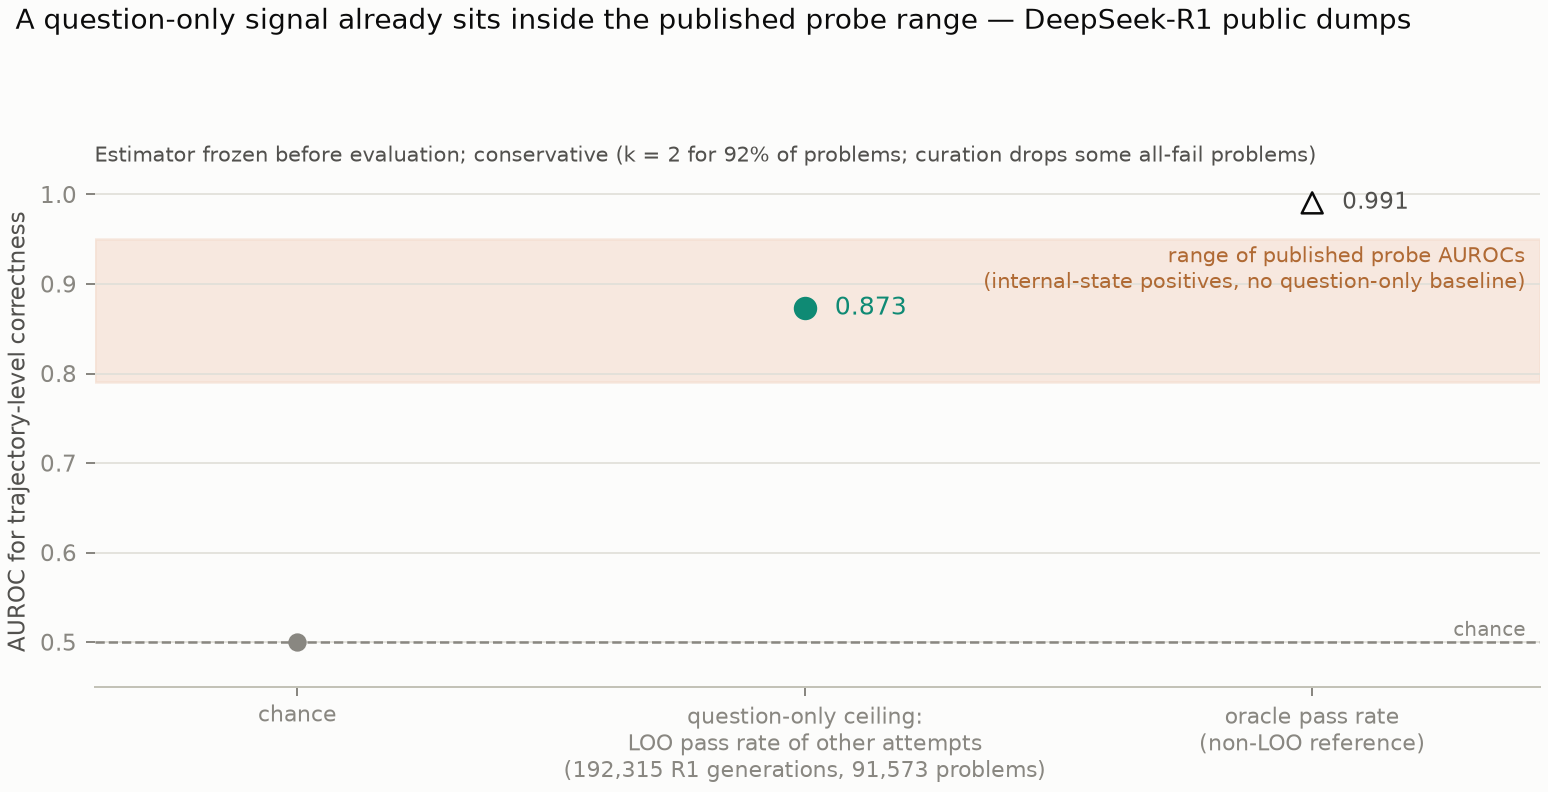
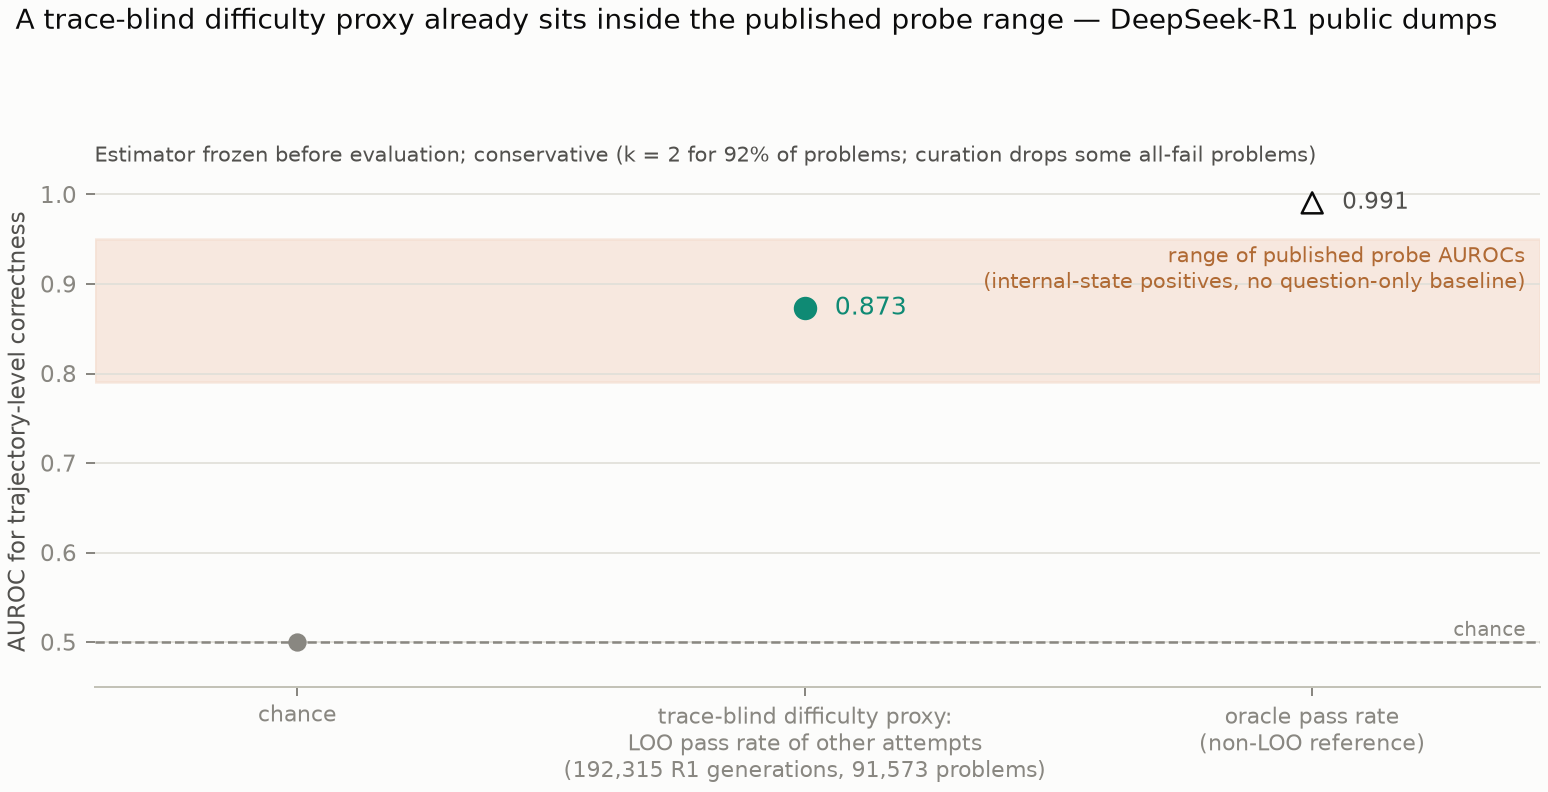
Sync second audit round: matched-compute in-grid/proxy decomposition, trace-blind proxy renaming, per-set n disclosure, bounded within-signal language, split classifier docs, refreshed claims table and figures

Changed region(s): [[0.031, 0.0, 0.9612, 0.0606], [0.4341, 0.8788, 0.6202, 0.9394]]

diff --git a/paper/sections/results_prediction.tex b/paper/sections/results_prediction.tex
@@ -36,8 +36,9 @@ straddling zero (Figure~\ref{fig:sweep}): the absence of detected gain is
 not an artifact of the chosen window. These are absences of detected gain,
 not demonstrations of equivalence --- the primary CI's upper bound
 ($+0.167$) does not exclude moderate effects, and no equivalence margin
-was pre-registered; an equivalence-style reading is licensed only where
-the intervals are tight, in the within-problem dissection below.
+was pre-registered anywhere; what tighter intervals can support is an
+explicit bound on effect size, as in the within-problem dissection
+below.
 
 \begin{figure}[t]\centering
 \includegraphics[width=\linewidth]{confirmatory_auroc}
@@ -53,9 +54,9 @@ signals.}
 
 Why the null has this shape is visible in the per-model split: the
 difficulty baseline alone is near-perfect for Gemma-4 (test AUROC $1.0$
-on both endpoints) and mediocre for Ministral-3 ($0.69$--$0.73$).
-Difficulty almost fully accounts for the capability-limited model's
-outcomes, while the
+on both endpoints, $n{=}16$ and $11$) and mediocre for Ministral-3
+($0.69$--$0.73$). Descriptively, difficulty leaves little to explain for
+the capability-limited model, while the
 budget-elastic model's outcomes carry residual stochastic variance --- the
 band of Section~\ref{sec:results-regimes} --- that neither difficulty nor
 early dynamics explain.
@@ -108,13 +109,14 @@ neutral reference for ``no within-attempt information'' is $\tfrac{1}{2}$.
 
 Our cohort is small, so we asked the same question of public data at
 scale. On 192{,}315 DeepSeek-R1 generations over 91{,}573 problems
-\citep{openr1math}, a question-only predictor --- the leave-one-out pass
-rate of the problem's \emph{other} attempts, for 92\% of problems a single
-binary observation --- achieves AUROC $0.873$ $[0.870, 0.876]$
+\citep{openr1math}, a trace-blind difficulty proxy --- the leave-one-out
+pass rate of the problem's \emph{other} attempts, for 92\% of problems a
+single binary observation, reading neither the trace nor the question ---
+achieves AUROC $0.873$ $[0.870, 0.876]$
 (problem-clustered bootstrap; estimator frozen before evaluation, and
 conservative by construction since dataset curation truncates the
-difficulty range). That places a question-only signal squarely inside the
-$0.79$--$0.95$ range that internal-state probe papers report
+difficulty range). That places a predictor that never reads the trace
+squarely inside the $0.79$--$0.95$ range that internal-state probe papers report
 \citep{zhang2025knowright, yuan2026diagnostic, sun2026trajectories,
 david2025temporal} --- none of which report a question-only baseline
 (Figure~\ref{fig:ceiling}; the partial exception,
@@ -127,8 +129,9 @@ multiple-choice guessing floor that attenuates, never inflates, it.
 
 \begin{figure}[t]\centering
 \includegraphics[width=.9\linewidth]{difficulty_ceiling_openr1}
-\caption{A question-only signal on public DeepSeek-R1 generations reaches
-AUROC 0.873 --- inside the published probe range.}
+\caption{A trace-blind difficulty proxy (the leave-one-out pass rate of
+the problem's other attempts) reaches AUROC 0.873 on public DeepSeek-R1
+generations --- inside the published probe range.}
 \label{fig:ceiling}\end{figure}
 
 \subsection{Dissecting a published probe positive in the reasoning-model
@@ -145,18 +148,22 @@ design permits the control no published positive can run: evaluating the
 construction.
 
 The uncontrolled result replicates: a last-four-token hidden-state probe
-at $t = 4$ reaches pooled AUROC $0.849$ $[0.735, 0.919]$, matching the
-$0.84$ reported by \citet{david2025temporal}. The same probe, on the same
-trajectories, evaluated within problem --- the within component of
+at $t = 4$ reaches pooled AUROC $0.849$ $[0.735, 0.919]$ on the
+8-per-problem evaluation set ($n{=}1{,}024$), matching the $0.84$
+reported by \citet{david2025temporal}. The same probe, evaluated within
+problem on the 22 mid-band problems ($n{=}5{,}632$) --- the within component of
 Eq.~\eqref{eq:decomp}, estimated under both discordant-pair and the
 pre-registered failure-count weighting (Appendix~\ref{app:extra}) ---
 sits at $0.496$ $[0.466, 0.527]$ under the pre-registered
 failure-count weighting and $0.515$ $[0.481, 0.562]$ under exact
 discordant-pair weighting --- chance under both --- and remains at chance
 at every one of ten anchors from $t = 4$ to $512$
-(Figure~\ref{fig:dissect}). The entire positive is problem identity, far
-below the dump's full leave-one-out difficulty ceiling of $0.981$
-(pass rate of the 255 other attempts per problem). Moreover, with sample composition held fixed, the pooled AUROC
+(Figure~\ref{fig:dissect}); the upper confidence limits bound any
+within-attempt AUROC signal at $t = 4$ by $0.527$ (failure-weighted) and
+$0.562$ (pair-weighted). The pooled positive is therefore predominantly
+--- and possibly entirely --- between-problem information, far below the
+dump's full leave-one-out difficulty ceiling of $0.981$ (pass rate of the
+255 other attempts per problem). Moreover, with sample composition held fixed, the pooled AUROC
 itself collapses --- indistinguishable from chance by $t = 16$ ($0.586$,
 CI straddling $0.5$) and $\approx 0.55$ from $t = 32$ onward: the
 difficulty content readable from last-token states is a prompt echo that

diff --git a/scripts/render_paper_figures.py b/scripts/render_paper_figures.py
@@ -345,10 +345,10 @@ def fig_matched_compute(root: Path, labels: pd.DataFrame, out: Path) -> None:
          for p, a in zip(lab.problem_id, lab.terminal_a1_anchor)], fontsize=8.4)
     ax.set_xlabel("Success rate"); ax.set_xlim(-0.04, 1.06)
     ax.grid(axis="y", visible=False)
-    ax.set_title("Prefix beats restart at matched total compute in 11/13; the "
-                 "largest measured restart reaches τ in 11/13 and the prefix "
-                 "rate in 9/13\n(* matched budget 9,216 exceeds the grid; "
-                 "R(8,192) substituted, favoring the prefix)",
+    ax.set_title("In-grid matched comparisons: prefix wins 9/9 (median +0.31); "
+                 "starred boundary proxies: 2 wins, 2 ties.\nLargest measured "
+                 "restart reaches τ in 11/13, the prefix rate in 9/13 "
+                 "(* R(9,216) unmeasured; R(8,192) proxy, bias direction unknown)",
                  loc="left", fontsize=8.8, color=SEC, pad=10)
     handles = [Line2D([], [], marker="o", ls="", color=ORANGE,
                       label="continue own prefix at final anchor t (pooled, 8 branches)"),
@@ -408,12 +408,56 @@ def fig_dissection(report_path: Path, out: Path) -> None:
     plt.close(fig)
 
 
+
+
+def fig_ceiling(report_path: Path, out: Path) -> None:
+    r = json.loads(report_path.read_text())
+    point = r["loo_ceiling_auroc"] if "loo_ceiling_auroc" in r else r["primary_auroc_difficulty_loo"]
+    ci = r.get("ci") or [r["primary_ci"]["ci_low"], r["primary_ci"]["ci_high"]]
+    fig, ax = plt.subplots(figsize=(8.6, 4.4), layout="constrained")
+    fig.get_layout_engine().set(rect=(0, 0, 1, 0.88))
+    ax.axhspan(0.79, 0.95, color="#f3d9c9", alpha=0.55, zorder=0)
+    ax.text(2.42, 0.945, "range of published probe AUROCs\n(internal-state "
+            "positives, no question-only baseline)", ha="right", va="top",
+            fontsize=8.6, color="#b06a34")
+    ax.axhline(0.5, color=MUTED, lw=1, ls="--")
+    ax.text(2.42, 0.507, "chance", fontsize=8, color=MUTED, ha="right")
+    ax.scatter([0], [0.5], color=MUTED, s=40, zorder=3)
+    ax.plot([1, 1], ci, color="#0f8a74", lw=3, solid_capstyle="round", zorder=3)
+    ax.scatter([1], [point], color="#0f8a74", s=70, zorder=4)
+    ax.annotate(f"{point:.3f}", (1, point), textcoords="offset points",
+                xytext=(12, 0), fontsize=10, color="#0f8a74", va="center")
+    oracle = r.get("oracle_upper_reference_non_loo")
+    if oracle:
+        ax.scatter([2], [oracle], facecolor="none", edgecolor=INK, s=70,
+                   marker="^", zorder=3)
+        ax.annotate(f"{oracle:.3f}", (2, oracle), textcoords="offset points",
+                    xytext=(12, 0), fontsize=9, color=SEC, va="center")
+    ax.set_xticks([0, 1, 2])
+    ax.set_xticklabels(["chance",
+                        "trace-blind difficulty proxy:\nLOO pass rate of other "
+                        "attempts\n(192,315 R1 generations, 91,573 problems)",
+                        "oracle pass rate\n(non-LOO reference)"], fontsize=8.8)
+    ax.set_ylabel("AUROC for trajectory-level correctness")
+    ax.set_ylim(0.45, 1.02); ax.set_xlim(-0.4, 2.45)
+    ax.grid(axis="x", visible=False)
+    fig.suptitle("A trace-blind difficulty proxy already sits inside the published "
+                 "probe range — DeepSeek-R1 public dumps",
+                 fontsize=11.2, color=INK, x=0.01, ha="left")
+    ax.set_title("Estimator frozen before evaluation; conservative (k = 2 for 92% "
+                 "of problems; curation drops some all-fail problems)",
+                 loc="left", fontsize=8.4, color=SEC)
+    fig.savefig(out / "difficulty_ceiling_openr1.png", dpi=180)
+    plt.close(fig)
+
+
 def main() -> None:
     parser = argparse.ArgumentParser()
     parser.add_argument("--labels", type=Path, required=True)
     parser.add_argument("--phase04c-root", type=Path, required=True)
     parser.add_argument("--output-dir", type=Path, required=True)
     parser.add_argument("--dissection-report", type=Path, default=None)
+    parser.add_argument("--ceiling-report", type=Path, default=None)
     args = parser.parse_args()
     args.output_dir.mkdir(parents=True, exist_ok=True)
     labels = pd.read_parquet(args.labels)
@@ -426,6 +470,8 @@ def main() -> None:
     fig_matched_compute(args.phase04c_root, labels, args.output_dir)
     if args.dissection_report and args.dissection_report.exists():
         fig_dissection(args.dissection_report, args.output_dir)
+    if args.ceiling_report and args.ceiling_report.exists():
+        fig_ceiling(args.ceiling_report, args.output_dir)
     print("figures rendered to", args.output_dir)
 
 

diff --git a/paper/main.tex b/paper/main.tex
@@ -43,14 +43,15 @@ from-scratch restart curves $R(C)$ at matched \emph{total} compute, with
 interval censoring and attempt-level noise handled explicitly. Applying the
 instrument to 178 problem--model cells (89 MATH problems $\times$ two small
 open models, 16K-token instrumented traces), we find: (i) only 1 of 178
-cells survives as prefix-limited under the frozen rules (three cells cross
-the advantage margin; an in-grid restart already solves two); (ii) restart dose--response
+cells survives as prefix-limited under the frozen rules (three non-instant
+cells cross the advantage margin; an in-grid restart already solves two); (ii) restart dose--response
 curves cleanly separate failure modes --- one model is compute-starved
 (solve share 0\%$\to$79\% as budget grows), the other capability-limited
-(flat); (iii) at matched total compute, continuing the model's own prefix
-beats restarting in 11/13 late-crossing cells, yet an 8{,}192-token restart
-reaches the same threshold in 11/13 and the prefix's own success rate in
-9/13 --- accumulated reasoning acts as \emph{compute
+(flat); (iii) wherever matched total compute lies inside the restart grid,
+continuing the model's own prefix beats restarting (9 of 9 late-crossing
+cells; 2 wins and 2 ties on four boundary proxies), yet an 8{,}192-token
+restart reaches the same threshold in 11/13 and the prefix's own success
+rate in 9/13 --- accumulated reasoning acts as \emph{compute
 compression}, not expanded reachability; (iv) roughly a third of ambiguous
 intermediate states remain intermediate after eight attempts (success
 rates 0.3--0.6), a band the independent second half of attempts
@@ -61,11 +62,13 @@ beyond a problem-difficulty baseline, at every forecast point from 128 to
 2,048 tokens --- a control that the growing literature of probe-based
 positives lacks. Two generation-free analyses of public corpora show the
 control bites in that literature's own regime: on 192K DeepSeek-R1
-generations a question-only signal reaches AUROC 0.873, inside the
-published probe range; and the closest published early-window positive
-replicates exactly (pooled 0.849 at $t{=}4$ on 6{,}480 R1-Distill-7B
-trajectories) while sitting at chance (0.496) \emph{within problem} at
-every anchor --- the entire signal is problem identity.
+generations a trace-blind difficulty proxy (the leave-one-out pass rate of
+the problem's other attempts) reaches AUROC 0.873, inside the published
+probe range; and the closest published early-window positive
+replicates (pooled 0.849 at $t{=}4$) while sitting at chance
+\emph{within problem} at every anchor, on the 22 non-saturated problems
+that hold 94\% of all failures --- consistent with the pooled positive
+being predominantly, and possibly entirely, between-problem information.
 \end{abstract}
 
 \section{Introduction}\label{sec:intro}

diff --git a/paper/sections/results_regimes.tex b/paper/sections/results_regimes.tex
@@ -62,14 +62,15 @@ Ministral-3 climbs $0\%\to79\%$; Gemma-4 stays flat.}
 The 13 threshold-censored Ministral-3 expansion cells --- trajectories
 whose crossing was replicated only at the final anchor --- allow the
 sharpest statement of what a long prefix is worth
-(Figure~\ref{fig:matched}). At \emph{matched total compute}, continuing
-the model's own prefix beats restarting in 11 of 13 cells (median
-advantage $+0.31$); for the four cells anchored at $t = 8{,}192$ the
-matched budget of $9{,}216$ exceeds the restart grid and
-$\Rhat(8{,}192)$ is substituted --- a substitution that can only favor
-the prefix, disclosed here. The largest measured restart reaches
-$\tauthr$ in 11 of 13 cells and matches the prefix's own pooled success
-rate in 9 of 13.
+(Figure~\ref{fig:matched}). In the nine cells whose matched budget $t + B$ lies inside the restart
+grid, continuing the model's own prefix beats restarting in all nine
+(median advantage $+0.31$). The four cells anchored at $t = 8{,}192$
+require $\Rhat(9{,}216)$, which was not measured; substituting
+$\Rhat(8{,}192)$ makes them proxy comparisons whose bias direction is
+unknown --- restart curves are not uniformly monotone --- and on these
+proxies the prefix wins two and ties two. The largest measured restart
+reaches $\tauthr$ in 11 of 13 cells and matches the prefix's own pooled
+success rate in 9 of 13.
 Accumulated reasoning therefore acts as \emph{compression} --- it reaches
 the same solutions with fewer total tokens --- rather than as expanded
 reachability. This instantiates, empirically and per problem, the no-benefit branch of
@@ -90,7 +91,7 @@ measured restart reaches $\tauthr$ in 11/13 and the prefix's own rate in
 9/13.}
 \label{fig:matched}\end{figure}
 
-\subsection{A genuinely stochastic solvability band}
+\subsection{A persistent band of intermediate solvability}
 
 Enlarging all 148 ambiguous cells to eight attempts resolved 55 as
 effectively unsolvable ($\le 2/8$) and 38 as solvable ($\ge 6/8$) --- and

diff --git a/paper/sections/appendix_extra.tex b/paper/sections/appendix_extra.tex
@@ -219,12 +219,15 @@ from a 100-problem level-balanced pool by frozen outcome-blind rules; the
 expansion screen selected problems with 1--5 verified successes out of 6
 fresh 3{,}072-token attempts (2 models $\times$ 3 seeds).
 
-\textbf{Classifiers.} All probes and the confirmatory models are
-$\ell_2$ logistic regression (C $= 0.1$, liblinear, class-weight
-balanced, max 5{,}000 iterations) on standardized features; raw-state
-probes add PCA to at most 128 components. Folds are
-StratifiedGroupKFold with problems as groups. Confidence intervals are
-percentile bootstraps over 2{,}000 problem-clustered draws.
+\textbf{Classifiers.} The instrumented-cohort analyses (confirmatory
+test and sweep) use $\ell_2$ logistic regression with C $= 0.1$,
+liblinear, class-weight balanced, at most 5{,}000 iterations, on
+standardized features. The public-dump probe battery uses scikit-learn
+defaults (C $= 1$, lbfgs) with class-weight balanced, at most 2{,}000
+iterations, standardization, and PCA to at most 128 components ---
+matching the probe recipes it replicates. Folds are StratifiedGroupKFold
+with problems as groups throughout. Confidence intervals are percentile
+bootstraps over 2{,}000 problem-clustered draws.
 
 \textbf{Exclusions.} Fifteen of 178 cells whose base run ended before
 the 512-token forecast window (10 train, 4 validation, 1 test) are

diff --git a/paper/sections/intro.tex b/paper/sections/intro.tex
@@ -52,13 +52,15 @@ rules were frozen contributed zero new cases
 unsolved problems dissolve as budget grows ($0\%\to79\%$,
 compute-starved); the other's do not budge (capability-limited).
 \item \textbf{Accumulated reasoning is compute compression.} At matched
-total compute the model's own prefix beats restarting (11/13), yet a
-larger restart budget reaches the same threshold in 11/13 and the prefix's
-own rate in 9/13: long reasoning reaches the same places cheaper, not new
-places.
+total compute the model's own prefix beats restarting wherever the
+comparison is exactly matched (9/9, with 2 wins and 2 ties on boundary
+proxies), yet a larger restart budget reaches the same threshold in 11/13
+and the prefix's own rate in 9/13: long reasoning reaches the same places
+cheaper, not new places.
 \item \textbf{Solvability is not binary.} A third of ambiguous
-intermediate states remain genuinely stochastic (success $0.3$--$0.6$ at
-eight attempts).
+intermediate states remain intermediate after eight attempts (success
+$0.3$--$0.6$), a band reproduced in the independent second half of
+attempts.
 \item \textbf{Early internal signals carry no detectable outcome
 information beyond difficulty.} A pre-registered, single-shot test on a held-out split finds
 $\Delta$AUROC $\approx 0$ at every forecast window

diff --git a/paper/sections/related_work.tex b/paper/sections/related_work.tex
@@ -40,7 +40,8 @@ quantity as training signal and its unreliability as label noise to be cleaned
 \emph{measurement instrument} --- with anchors on the model's own trace,
 interval censoring, attempt-pooling, and the restart control --- and treat
 its intermediate values as signal: roughly a third of ambiguous states
-remain genuinely stochastic (success 0.3--0.6 at $n{=}8$), which undermines
+remain intermediate after eight attempts (success 0.3--0.6), which
+undermines
 the single-crossing, monotone-value picture implicit in binary-search
 labeling schemes \citep{luo2024omegaprm} and in snowball-error theories of
 monotone degradation \citep{gan2025snowball}.

diff --git a/paper/sections/discussion.tex b/paper/sections/discussion.tex
@@ -44,7 +44,8 @@ model); and the
 within-trajectory \emph{timing} question --- when does value arrive? ---
 remained under-powered everywhere because genuine interior events are
 rare, which is itself a finding: at this scale, breakthroughs are either
-immediate or absent. no equivalence margin was pre-registered for the confirmatory endpoints,
+immediate or absent. No equivalence margin was pre-registered for the
+confirmatory endpoints,
 so their results are absences of detected gain rather than demonstrated
 equivalence; and positive existence claims (the one prefix-limited cell,
 the intermediate-solvability band) rest on modest counts and warrant

diff --git a/paper/claims_evidence.md b/paper/claims_evidence.md
@@ -6,16 +6,16 @@ Numbers are final (all runs complete as of 2026-08-28).
 | # | Claim (paper wording draft) | Evidence artifact | Key numbers | Figure |
 |---|---|---|---|---|
 | C1 | Fixed-budget truncation probes measure budget fit (T_F), not prefix value (T_V) | A2 budget-sensitivity run: probes/sensitivity/budget_4096/ | Ministral solves from 16-token prefixes at 4096 budget; dev crossings dissolve | budget_falsification.png |
-| C2 | Genuine prefix-locked value is rare: 1/178 cells | a5_labels_project/a5_full_cohort_labels.parquet + summary | 1 prefix-limited (gemma math_03159, T_V=896, adv 0.75); δ=0.25→7, δ=0.75→2; conservative agrees 178/178 | a5_project_regime_map.png |
-| C3 | Restart dose–response separates compute-starved vs capability-limited failure | restart_baseline_wave3/*/restart_panel.parquet | Ministral 0→19→45→79% (0 non-monotone); Gemma 10–12% flat (5 wobbles); agreement 42/89 | wave3_restart_dose_response.png |
-| C4 | Accumulated reasoning = compute compression, not reachability | terminal_stability_wave3 + labels (13 censored cells) | matched-compute advantage +11/13 (median +0.31); restart@8192 catches up 11/13 | wave3_matched_compute.png |
-| C5 | A genuinely stochastic solvability band exists | wave3_topup pooled labels (148 enlarged cells) | 55 low / 55 mid (3–5 of 8) / 38 high; labels trimmed not inflated (−6/+1 events) | wave3_topup_resolution.png |
-| C6 | Early internal signals add nothing beyond difficulty (pre-registered null) | confirmatory_early_signal/confirmatory_report.json | primary Δ+0.026 [−0.054,+0.167]; secondary Δ−0.090 [−0.213,+0.033]; level-free agrees | confirmatory_auroc.png |
+| C2 | Prefix-limited value is rare: 1/178 survives taxonomy (3 non-instant advantage crossings, 2 already restart-solvable in-grid; 4 instant-advantaged) | a5_labels_project/a5_full_cohort_labels.parquet + summary | 1 prefix-limited (gemma math_03159, T_V=896, adv 0.75); δ=0.25→7, δ=0.75→2; conservative agrees 178/178 | a5_project_regime_map.png |
+| C3 | Restart dose–response separates compute-starved vs capability-limited failure | restart_baseline_wave3/*/restart_panel.parquet | group shares Ministral 0→19→45→79% vs Gemma 10–12% flat; individual 4-attempt curves noisy: 8/42 vs 18/40 with any decrease (Ministral all single-attempt; Gemma 5 drops ≥0.5); threshold reversals 2 vs 1 | wave3_restart_dose_response.png |
+| C4 | Accumulated reasoning = compute compression, not reachability | terminal_stability_wave3 + labels (13 censored cells) | in-grid matched comparisons: prefix wins 9/9 (median +0.31); 4 boundary proxies (R(9216) unmeasured, bias direction unknown): 2 wins 2 ties; restart@8192 reaches τ 11/13, matches prefix rate 9/13 | wave3_matched_compute.png |
+| C5 | A persistent band of intermediate solvability | wave3_topup pooled labels (148 enlarged cells) | 55 low / 55 mid (3–5 of 8) / 38 high; independent second half (branches 4–7): 0-4 successes in 37/37/28/21/25 cells, 58% intermediate; labels trimmed not inflated (−6/+1) | wave3_topup_resolution.png |
+| C6 | Early internal signals add no detectable gain beyond difficulty (pre-registered; not equivalence — no margin set, primary CI up to +0.167) | confirmatory_early_signal/confirmatory_report.json | primary Δ+0.026 [−0.054,+0.167]; secondary Δ−0.090 [−0.213,+0.033]; level-free agrees | confirmatory_auroc.png |
 | C6b | The null is not a forecast-point artifact (post-hoc sweep) | early_signal_posthoc_sweep/t_*/ | 8/10 deltas negative across t∈{128..2048}; all CIs straddle 0 | early_signal_prefix_sweep.png |
-| C7 | Difficulty is the operative signal; its strength is model-dependent | same report, per-model descriptives | baseline 0.88 (secondary); Gemma 1.0 both endpoints; Ministral 0.63–0.73 | (table) |
+| C7 | Difficulty is the operative signal; strength model-dependent (descriptive only, small subgroups) | same report, per-model descriptives | baseline 0.88 (secondary); Gemma 1.0 both endpoints (n=16/11); Ministral 0.69–0.73 | (table) |
 | C8 | Timing prediction is not testable at this scale — events are too rare | horizon gate outputs | 21 interior events project-wide; 4 in test; gate: underpowered, not fit | (text) |
 | C9 | 4-attempt labels are systematically optimistic; replication cuts both ways | A1 outputs (dev+wave3) + A5.1 summaries | A1 wave3: 13/16 confirmed (Ministral), 0/1 (Gemma); pooling: −6/+1 | wave3_label_hardening.png (appendix) |
-| C10 | A question-only difficulty ceiling sits inside the published probe range, in their own regime (R1, competition math) | artifacts/external/difficulty_ceiling/report.json (estimator frozen in script docstring pre-run) | AUROC 0.873 [0.870, 0.876], 91,573 problems / 192,315 R1 generations; conservative (k=2 dominant, curation truncation); scoped as vulnerability claim + falsifiable prediction, not refutation | difficulty_ceiling_openr1.png |
+| C10 | A trace-blind difficulty proxy (LOO pass rate) sits inside the published probe range, in their own regime (R1, competition math) | artifacts/external/difficulty_ceiling/report.json (estimator frozen in script docstring pre-run) | AUROC 0.873 [0.870, 0.876], 91,573 problems / 192,315 R1 generations; conservative (k=2 dominant, curation truncation); scoped as vulnerability claim + falsifiable prediction, not refutation | difficulty_ceiling_openr1.png |
 
 Discipline instruments to cite in Methods/Appendix: frozen amendments with
 dates and commit order; failed gates recorded (G1, G2, A5 pilot 7/8);

diff --git a/docs/protocol_amendments/2026-08-31-math128-distill-probe.md b/docs/protocol_amendments/2026-08-31-math128-distill-probe.md
@@ -94,3 +94,18 @@ problem-identity; no within-attempt early signal exists in this regime
 either. Reconciliations: consistent with Lugoloobi et al.'s
 declining-signal-with-budget and with probes at special answer positions
 (Zhang et al.) rather than arbitrary early positions.
+
+## Audit re-analysis (2026-09-01, external critique applied)
+
+Two implementation corrections from the pre-submission audit, both
+re-run with unchanged probe pipeline and seeds (state-probe values
+identical to the original run):
+- The LOO baseline now uses the full 32,768-sample verification table
+  (255 other attempts per problem) instead of the extracted subset
+  (7 others for non-mid-band problems): pooled LOO AUROC 0.974 -> 0.981.
+- The within-problem metric is additionally reported under exact
+  discordant-pair weighting (s_c * f_c), the weighting implied by the
+  paper's pooled-AUROC decomposition, alongside the pre-registered
+  failure-count weighting: at t = 4, 0.515 [0.481, 0.562] vs
+  0.496 [0.466, 0.527]; chance under both weightings at all ten anchors.
+Outputs: analysis_v2/. Conclusions unchanged.
